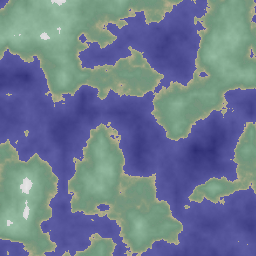
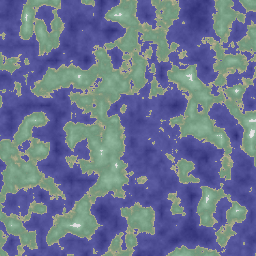
Only generate 6 levels, it's fine.

diff --git a/map/mapgen.py b/map/mapgen.py
@@ -9,7 +9,7 @@ import sys
 
 # note that the size of each pixel is 20 meters
 base = .4
-count = 15
+count = 6
 freqs = []
 amps = []
 copy = count
